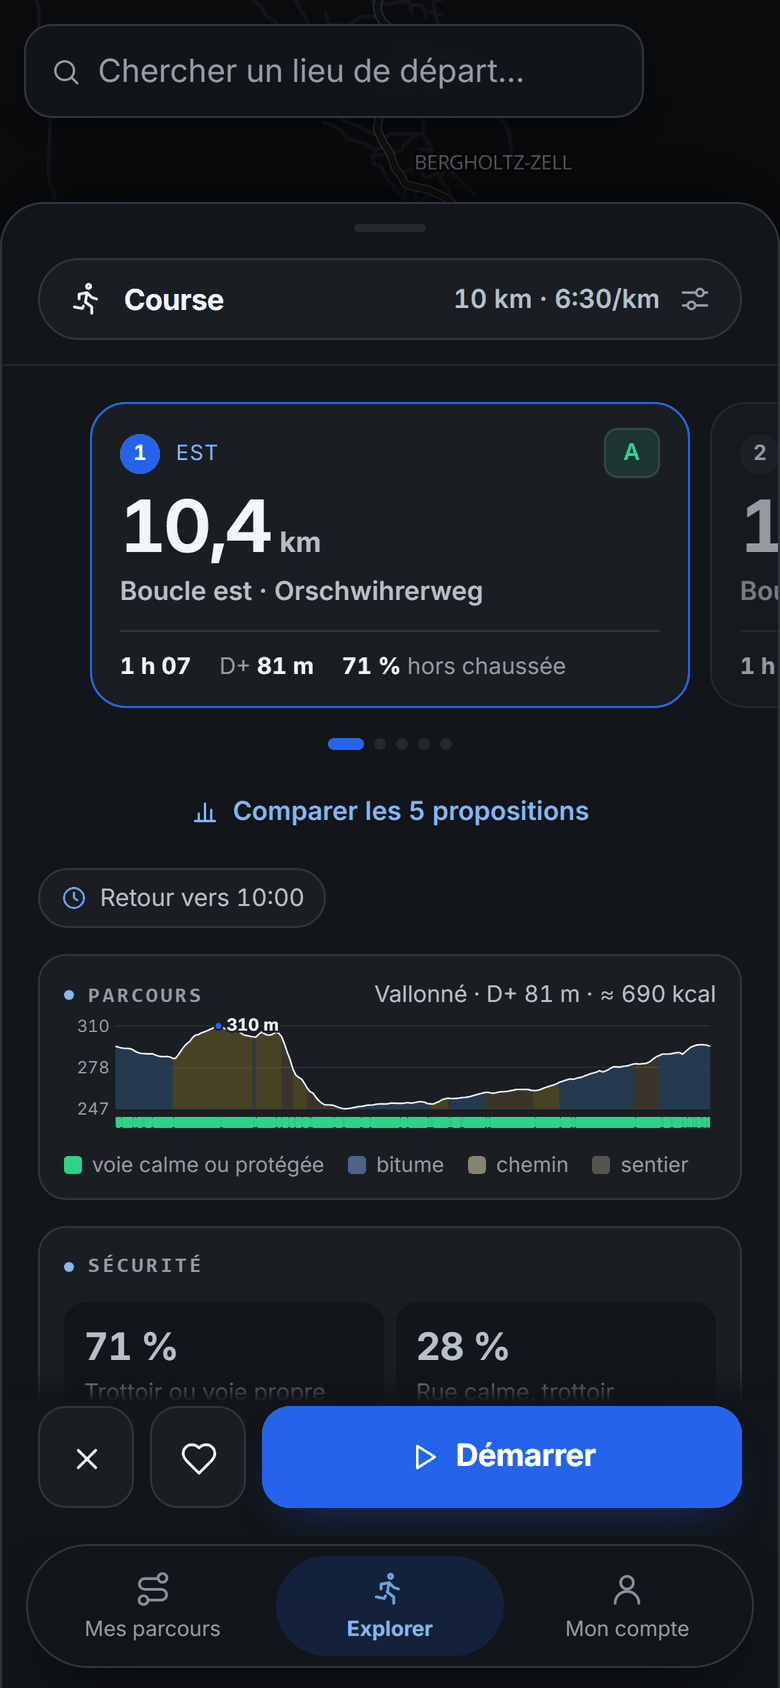
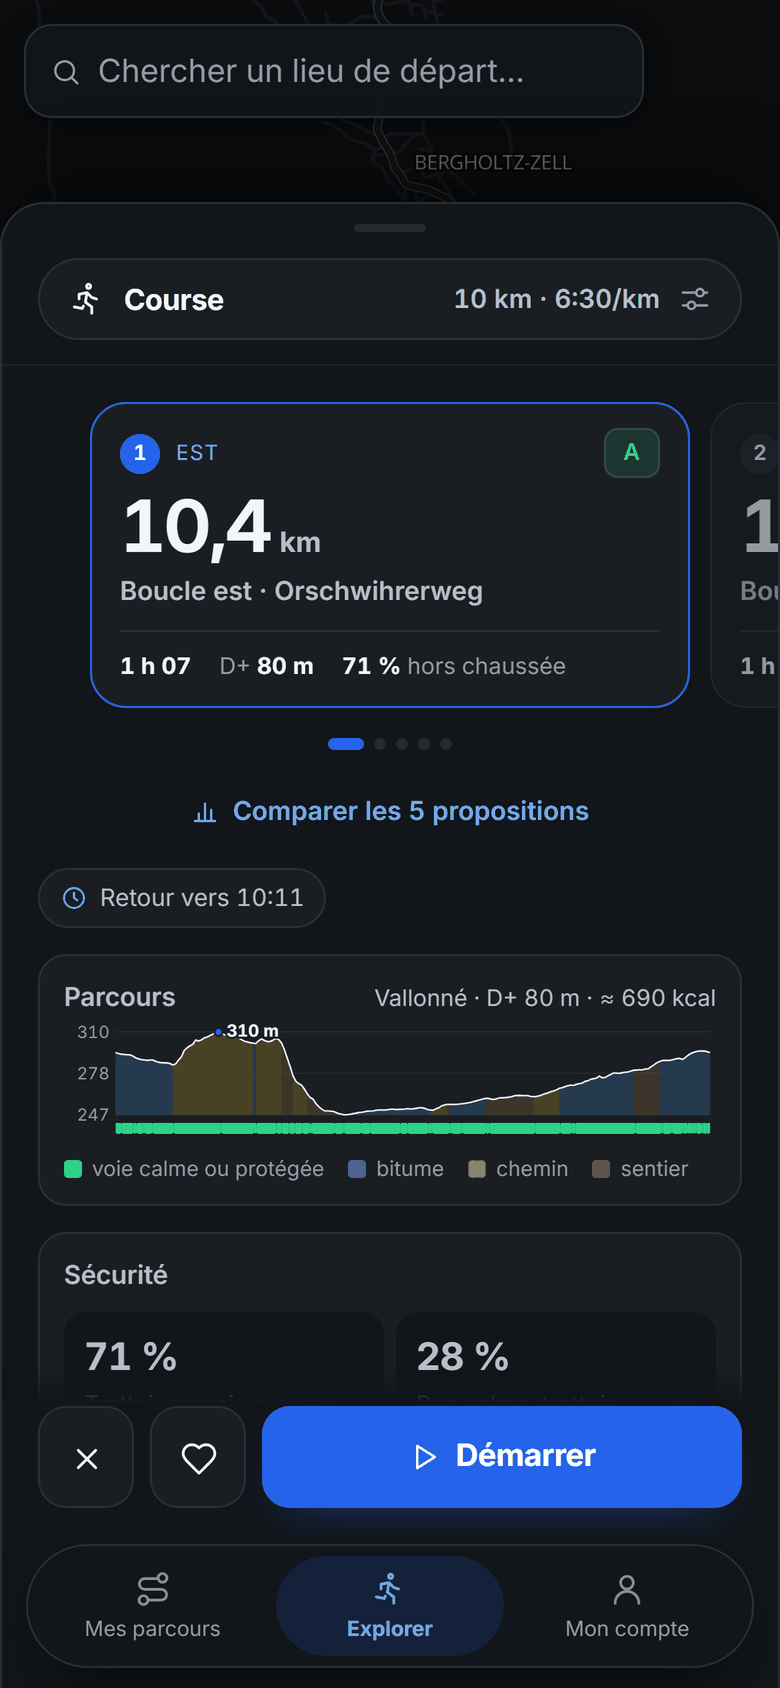
L'app est plus calme à l'œil : étiquettes en minuscules sans capitales espacées, chiffres et sorties sans cadre, noms raccourcis comme « Terrain »

diff --git a/frontend/src/styles/20-labels.css b/frontend/src/styles/20-labels.css
@@ -1,12 +1,13 @@
 /* Le ton commun à tous les écrans : les étiquettes, les chiffres, les choix.
 
-   Repris de ce qui se lit bien chez Roovr et RunnrZ, sans leurs couleurs :
-   - chaque section s'annonce par une petite étiquette en chasse fixe, espacée,
-     précédée d'un point de l'accent : on repère les blocs sans les lire ;
-   - un chiffre se lit en grand, son unité en petit à côté, et son étiquette
-     au-dessus : l'œil trouve le nombre d'abord ;
+   Calme d'abord : une étiquette de section est un petit titre en minuscules,
+   pas une ligne de capitales espacées précédée d'un point — répétées dix fois
+   par écran, elles faisaient plus de bruit que le contenu qu'elles annonçaient.
+   - un chiffre se lit en grand, son étiquette en petit au-dessus ;
    - un choix fait se voit d'un trait de l'accent, pas seulement d'un gris un
-     peu plus clair, qui ne se distinguait pas en plein soleil.
+     peu plus clair, qui ne se distinguait pas en plein soleil ;
+   - les cadres se font rares : la surface suffit à grouper, le filet sert
+     quand deux surfaces identiques se touchent.
    Ce fichier vient en dernier : il retouche les fichiers qui le précèdent. */
 
 /* ══ étiquettes de section ═══════════════════════════════════════════════ */
@@ -17,24 +18,12 @@
 .search__title,
 .startmenu b,
 .acct__label {
-  font-family: var(--eyebrow);
-  font-size: calc(10.5px * var(--text-scale));
+  font-family: var(--display);
+  font-size: calc(13px * var(--text-scale));
   font-weight: 600;
-  letter-spacing: 0.14em;
-  text-transform: uppercase;
-  color: var(--text-3);
-}
-.label::before,
-.acct__label::before,
-.strip__title::before {
-  content: '';
-  display: inline-block;
-  width: 5px;
-  height: 5px;
-  margin: 0 7px 1px 0;
-  border-radius: 50%;
-  background: var(--accent-text);
-  vertical-align: middle;
+  letter-spacing: -0.005em;
+  text-transform: none;
+  color: var(--text-2);
 }
 
 /* ══ choix segmentés ═════════════════════════════════════════════════════ */
@@ -78,8 +67,7 @@
   min-width: 0;
   padding: 9px 9px 10px;
   text-align: left;
-  border: 1px solid var(--line-soft);
-  border-right: 1px solid var(--line-soft);
+  border: 0;
   border-radius: 12px;
   background: var(--surface-2);
 }
@@ -92,9 +80,31 @@
   display: flex;
   align-items: flex-start;
   gap: 4px;
-  font-family: var(--eyebrow);
-  font-size: calc(9px * var(--text-scale));
-  letter-spacing: 0.1em;
-  text-transform: uppercase;
+  font-size: calc(11px * var(--text-scale));
   line-height: 1.25;
+}
+
+/* ══ moins de cadres ═════════════════════════════════════════════════════ */
+
+/* Une ligne de liste se détache par sa surface : le filet en plus doublait
+   chaque sortie d'un trait, et dix sorties faisaient une grille. */
+.list__row {
+  border-color: transparent;
+}
+/* Le geste « garder la carte » à côté : une icône, pas une seconde carte. Sa
+   couleur dit l'état (vert gardée, jaune incomplète). */
+.offline {
+  min-width: 40px;
+  padding: 0 6px;
+  background: none;
+  border-color: transparent;
+}
+.offline--on,
+.offline--other,
+.offline--warn {
+  border-color: transparent;
+}
+.statstrip__card {
+  background: var(--surface-2);
+  border-color: transparent;
 }

diff --git a/frontend/src/FiltersSheet.jsx b/frontend/src/FiltersSheet.jsx
@@ -16,14 +16,14 @@ export const SPORTS = [
 // à vélo. Le moteur, lui, reçoit la même valeur.
 export const TERRAINS = {
   run: [
-    { key: 'road', label: 'Route', icon: 'road', sub: 'Les rues et routes goudronnées.' },
-    { key: 'mixed', label: 'Mixte', icon: 'forest', sub: 'Routes et chemins mêlés, selon ce qui est autour.' },
-    { key: 'trail', label: 'Sentier', icon: 'mountain', sub: 'Chemins, sentiers et pistes, loin des voitures.' },
+    { key: 'road', label: 'Route', icon: 'road', sub: 'Rues et routes goudronnées' },
+    { key: 'mixed', label: 'Mixte', icon: 'forest', sub: 'Routes et chemins mêlés' },
+    { key: 'trail', label: 'Sentier', icon: 'mountain', sub: 'Chemins et sentiers, loin des voitures' },
   ],
   bike: [
-    { key: 'road', label: 'Route', icon: 'road', sub: 'Les routes goudronnées.' },
-    { key: 'mixed', label: 'Mixte', icon: 'forest', sub: 'Routes et chemins roulants mêlés.' },
-    { key: 'trail', label: 'VTT', icon: 'mountain', sub: 'Chemins et sentiers, loin des voitures.' },
+    { key: 'road', label: 'Route', icon: 'road', sub: 'Routes goudronnées' },
+    { key: 'mixed', label: 'Mixte', icon: 'forest', sub: 'Routes et chemins roulants' },
+    { key: 'trail', label: 'VTT', icon: 'mountain', sub: 'Chemins et sentiers, loin des voitures' },
   ],
 }
 
@@ -357,7 +357,7 @@ export default function FiltersSheet({ value, origin = null, onApply, onClose })
           )}
 
           {shown('terrain') && (
-            <Field label="Préférences de parcours" info="terrain" sport={draft.sport}>
+            <Field label="Terrain" info="terrain" sport={draft.sport}>
               <Choices label="Terrain" options={TERRAINS[draft.sport]} value={draft.surface} onChange={(surface) => set({ surface })} />
               <div className="checks checks--after">
                 <button

diff --git a/frontend/src/styles/01-base.css b/frontend/src/styles/01-base.css
@@ -10,8 +10,8 @@
   --surface: #121519;
   --surface-2: #1a1e23;
   --surface-3: #252a31;
-  --line: #2f353d;
-  --line-soft: #20252b;
+  --line: #2a2f36;
+  --line-soft: #1e2227;
   --text: #f3f5f7;
   --text-2: #b6bfc9;
   --text-3: #929ca8;
@@ -93,9 +93,9 @@
   --display: 'Inter Variable', 'Inter', -apple-system, system-ui, 'Helvetica Neue', Arial, sans-serif;
   /* Les chiffres : la même police, en chasse fixe (`.mono`). */
   --mono: var(--display);
-  /* Les étiquettes de section (`20-labels.css`) : une vraie chasse fixe, celle
-     du système, pour les distinguer du texte sans ajouter de police. */
-  --eyebrow: ui-monospace, 'SF Mono', SFMono-Regular, Menlo, Consolas, monospace;
+  /* Les petites étiquettes : la même police que le reste. La chasse fixe
+     espacée, en capitales, donnait à chaque écran un air de tableau de bord. */
+  --eyebrow: var(--display);
 
   --r: 14px;
   --side: 400px;
@@ -115,8 +115,8 @@
   --surface: #ffffff;
   --surface-2: #f4f6f8;
   --surface-3: #e7eaee;
-  --line: #d3d9e0;
-  --line-soft: #e4e8ec;
+  --line: #dce1e6;
+  --line-soft: #e9ecef;
   --text: #0f1419;
   --text-2: #3c4653;
   --text-3: #586270;

diff --git a/frontend/src/FiltersSheet.render.test.jsx b/frontend/src/FiltersSheet.render.test.jsx
@@ -140,7 +140,7 @@ describe('le panneau des filtres', () => {
 
   it('n’affiche pas un filtre masqué dans les réglages, mais garde la longueur', () => {
     ouvrir({ ...DEFAULTS, hiddenFilters: ['terrain'] })
-    expect(screen.queryByText('Préférences de parcours')).not.toBeInTheDocument()
+    expect(screen.queryByRole('radiogroup', { name: 'Terrain' })).not.toBeInTheDocument()
     // Les essentiels et les autres filtres restent.
     expect(screen.getByText('Longueur')).toBeInTheDocument()
     expect(screen.getByText('Allure')).toBeInTheDocument()

diff --git a/frontend/src/Library.jsx b/frontend/src/Library.jsx
@@ -685,7 +685,7 @@ function Totals({ history, profile }) {
         </div>
         <div>
           <b>{km(week, 0)}</b>
-          <span>km · 7 j</span>
+          <span>km en 7 jours</span>
         </div>
       </div>
       <p className="muted small">

diff --git a/docs/interface.md b/docs/interface.md
@@ -11,6 +11,14 @@ sécurité, points d'eau — et la poignée grise le replie. L'app reste en
 portrait (`customize.py`) : on court téléphone en main ou au bras, et une app
 qui pivote au moindre mouvement est inutilisable en courant.
 
+**Peu de cadres, peu de bruit.** Les étiquettes de section sont de petits
+titres en minuscules, dans la police du texte — plus de capitales espacées en
+chasse fixe précédées d'un point. Les chiffres du bilan n'ont plus de cadre,
+les lignes de « Mes parcours » se détachent par leur surface et non par un
+filet, et le bouton « garder la carte » n'est plus qu'une icône
+(`20-labels.css`). Les noms vont à l'essentiel : « Terrain », « Route · Rues et
+routes goudronnées ».
+
 **Peu de texte à l'écran.** Dans le détail, l'heure de retour, la météo et le
 vent tiennent sur une rangée de pastilles (`Facts` dans `Explore.jsx`) ; seul
 un conseil qui change la tenue (pluie, froid, chaleur) garde sa phrase. Dans
